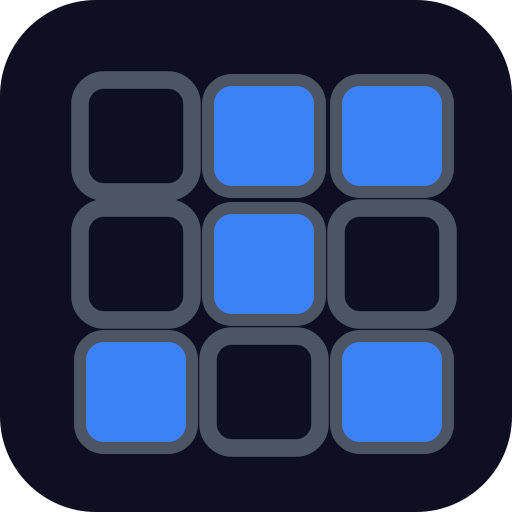
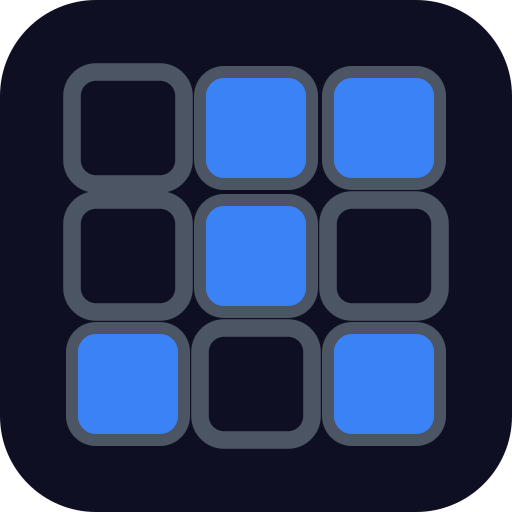
Improve PWA standalone detection & mobile UI
Detect and apply a persistent is-standalone-pwa class early for installed PWAs (index.html + useStandalonePwa). Sync the document class when the display-mode changes and use it to drive layout.

Refactor mobile layout and navigation styling to support two modes: in-browser (leave room for browser UI) and installed PWA (pin nav to physical bottom). Add CSS variables and media queries to adjust nav padding, app height, and scroll padding; replace the mobile-nav--standalone class with class-based and CSS-variable driven styles. Update App.vue and component styles to opt out/in based on the standalone class.

Update components: AppNavigation no longer imports the composable and uses the simplified class approach; InfoView now shows different install/installed messaging and uses the standalone state; SettingsView and views get bottom padding tied to the mobile nav offset.

Minor updates: tweak favicon SVG coordinates and grid math in themes/favicon.ts, and replace some icon/image assets.

Changed region(s): [[0.125, 0.125, 0.9062, 0.9062]]

diff --git a/src/assets/main.css b/src/assets/main.css
@@ -52,6 +52,8 @@ h6 {
 
 /* CSS Variables */
 :root {
+  --mobile-nav-offset: 0px;
+
   /* Fonts */
   --font-primary: 'Inter', -apple-system, BlinkMacSystemFont, 'Segoe UI', Roboto, sans-serif;
   --font-secondary: 'JetBrains Mono', Monaco, 'Cascadia Code', 'Roboto Mono', monospace;
@@ -94,11 +96,93 @@ body {
 }
 
 @media (max-width: 767px) {
-  html,
-  body {
+  html:not(.is-standalone-pwa),
+  html:not(.is-standalone-pwa) body {
     height: 100dvh;
     max-height: 100dvh;
     overflow: hidden;
+  }
+}
+
+/* Mobile browser: leave room for the bottom toolbar above the nav */
+@media (max-width: 767px), (hover: none) and (pointer: coarse) {
+  html:not(.is-standalone-pwa) .mobile-nav {
+    padding-bottom: calc(
+      0.75rem + env(safe-area-inset-bottom, 0px) + max(0px, 100vh - 100dvh)
+    );
+  }
+}
+
+/* Installed PWA: pin nav to the physical bottom of the screen */
+@media (max-width: 767px), (hover: none) and (pointer: coarse) {
+  html.is-standalone-pwa {
+    --mobile-nav-offset: calc(5rem + env(safe-area-inset-bottom, 0px));
+  }
+
+  html.is-standalone-pwa,
+  html.is-standalone-pwa body {
+    height: 100%;
+    min-height: 100dvh;
+    min-height: -webkit-fill-available;
+    max-height: none;
+    overflow: hidden;
+  }
+
+  html.is-standalone-pwa #app {
+    height: 100%;
+    min-height: 100dvh;
+    min-height: -webkit-fill-available;
+    max-height: none;
+  }
+
+  html.is-standalone-pwa .mobile-nav {
+    position: fixed;
+    bottom: 0;
+    left: 0;
+    right: 0;
+    z-index: 100;
+    padding-bottom: calc(0.75rem + env(safe-area-inset-bottom, 0px));
+  }
+
+  html.is-standalone-pwa .app-main {
+    scroll-padding-bottom: var(--mobile-nav-offset);
+  }
+}
+
+@media (display-mode: standalone), (display-mode: fullscreen) {
+  @media (max-width: 767px), (hover: none) and (pointer: coarse) {
+    html {
+      --mobile-nav-offset: calc(5rem + env(safe-area-inset-bottom, 0px));
+    }
+
+    html,
+    html body {
+      height: 100%;
+      min-height: 100dvh;
+      min-height: -webkit-fill-available;
+      max-height: none;
+      overflow: hidden;
+    }
+
+    #app {
+      height: 100%;
+      min-height: 100dvh;
+      min-height: -webkit-fill-available;
+      max-height: none;
+    }
+
+    .mobile-nav {
+      position: fixed;
+      bottom: 0;
+      left: 0;
+      right: 0;
+      z-index: 100;
+      padding-bottom: calc(0.75rem + env(safe-area-inset-bottom, 0px));
+    }
+
+    .app-main {
+      scroll-padding-bottom: var(--mobile-nav-offset);
+    }
   }
 }
 

diff --git a/src/components/InfoView.vue b/src/components/InfoView.vue
@@ -85,22 +85,32 @@
         <h3 class="info-section__title">Mobile</h3>
 
         <div class="info-mobile__block">
-          <h4 class="info-mobile__subtitle">Install as an app</h4>
-          <p class="info-mobile__text">
-            Drumpad is a Progressive Web App (PWA). You can add it to your home screen for a
-            full-screen, app-like experience — including offline use after the first visit.
-          </p>
-          <ul class="info-mobile__steps">
-            <li>
-              <strong>iPhone / iPad (Safari):</strong> tap Share, then
-              <em>Add to Home Screen</em>.
-            </li>
-            <li>
-              <strong>Android (Chrome):</strong> open the browser menu, then
-              <em>Install app</em> or <em>Add to Home screen</em>.
-            </li>
-          </ul>
-          <span class="info-mobile__badge info-mobile__badge--available">Available now</span>
+          <template v-if="isStandalonePwa">
+            <h4 class="info-mobile__subtitle">Installed app</h4>
+            <p class="info-mobile__text">
+              You are currently using Drumpad as an installed app — full-screen, on your home
+              screen, with offline support after your first visit.
+            </p>
+            <span class="info-mobile__badge info-mobile__badge--active">Active now</span>
+          </template>
+          <template v-else>
+            <h4 class="info-mobile__subtitle">Install as an app</h4>
+            <p class="info-mobile__text">
+              Drumpad is a Progressive Web App (PWA). You can add it to your home screen for a
+              full-screen, app-like experience — including offline use after the first visit.
+            </p>
+            <ul class="info-mobile__steps">
+              <li>
+                <strong>iPhone / iPad (Safari):</strong> tap Share, then
+                <em>Add to Home Screen</em>.
+              </li>
+              <li>
+                <strong>Android (Chrome):</strong> open the browser menu, then
+                <em>Install app</em> or <em>Add to Home screen</em>.
+              </li>
+            </ul>
+            <span class="info-mobile__badge info-mobile__badge--available">Available now</span>
+          </template>
         </div>
 
         <div class="info-mobile__block info-mobile__block--native">
@@ -151,6 +161,7 @@
 
 <script lang="ts">
 import { defineComponent } from 'vue'
+import { useStandalonePwa } from '../composables/useStandalonePwa'
 import { useTouchPrimaryDevice } from '../composables/useTouchPrimaryDevice'
 
 const LEGACY_DRUMPAD_URL = 'https://jakub-horacek.github.io/drumpad/'
@@ -161,8 +172,10 @@ export default defineComponent({
   name: 'InfoView',
   setup() {
     const { isTouchPrimary } = useTouchPrimaryDevice()
+    const { isStandalonePwa } = useStandalonePwa()
     return {
       isTouchPrimary,
+      isStandalonePwa,
       LEGACY_DRUMPAD_URL,
       LEGACY_REPO_URL,
       SOURCE_REPO_URL,
@@ -175,6 +188,7 @@ export default defineComponent({
 .view {
   min-height: calc(100vh - 8rem);
   padding: 1rem;
+  padding-bottom: calc(1rem + var(--mobile-nav-offset, 0px));
 }
 
 .view__content {
@@ -367,6 +381,12 @@ export default defineComponent({
   color: #22c55e;
   background: color-mix(in srgb, #22c55e 15%, var(--bg-tertiary));
   border-color: #22c55e;
+}
+
+.info-mobile__badge--active {
+  color: var(--accent-color);
+  background: var(--accent-color-light, rgba(59, 130, 246, 0.15));
+  border-color: var(--accent-color);
 }
 
 .info-list {

diff --git a/src/components/AppNavigation.vue b/src/components/AppNavigation.vue
@@ -1,5 +1,5 @@
 <template>
-  <nav :class="['mobile-nav', { 'mobile-nav--standalone': isStandalonePwa }]">
+  <nav class="mobile-nav">
     <button
       v-for="view in views"
       :key="view.id"
@@ -14,7 +14,6 @@
 
 <script lang="ts">
 import { defineComponent, h } from 'vue'
-import { useStandalonePwa } from '../composables/useStandalonePwa'
 import type { ViewMode } from '../types'
 
 // Icon components
@@ -63,7 +62,6 @@ export default defineComponent({
   },
   emits: ['view-change'],
   setup() {
-    const { isStandalonePwa } = useStandalonePwa()
     const views = [
       { id: 'info' as ViewMode, label: 'Info', icon: 'InfoIcon' },
       { id: 'drumpad' as ViewMode, label: 'Drumpad', icon: 'GridIcon' },
@@ -71,7 +69,6 @@ export default defineComponent({
     ]
 
     return {
-      isStandalonePwa,
       views,
     }
   },
@@ -87,18 +84,8 @@ export default defineComponent({
   background: var(--bg-secondary);
   border-top: 1px solid var(--border-color);
   padding: 0.75rem;
-  padding-bottom: calc(
-    0.75rem + env(safe-area-inset-bottom, 0px) + max(0px, 100vh - 100dvh)
-  );
-  gap: 0.25rem;
-}
-
-.mobile-nav--standalone {
-  position: fixed;
-  bottom: 0;
-  left: 0;
-  right: 0;
   padding-bottom: calc(0.75rem + env(safe-area-inset-bottom, 0px));
+  gap: 0.25rem;
 }
 
 .mobile-nav__btn {

diff --git a/src/composables/useStandalonePwa.ts b/src/composables/useStandalonePwa.ts
@@ -7,12 +7,20 @@ function detectStandalonePwa(): boolean {
     return false
   }
 
+  if (document.documentElement.classList.contains('is-standalone-pwa')) {
+    return true
+  }
+
   const navigatorWithStandalone = window.navigator as Navigator & { standalone?: boolean }
   if (navigatorWithStandalone.standalone === true) {
     return true
   }
 
   return window.matchMedia(STANDALONE_DISPLAY_MEDIA_QUERY).matches
+}
+
+function applyStandalonePwaClass(isStandalone: boolean): void {
+  document.documentElement.classList.toggle('is-standalone-pwa', isStandalone)
 }
 
 function createStandalonePwaState(): { isStandalonePwa: Ref<boolean> } {
@@ -22,9 +30,13 @@ function createStandalonePwaState(): { isStandalonePwa: Ref<boolean> } {
     return { isStandalonePwa }
   }
 
+  applyStandalonePwaClass(isStandalonePwa.value)
+
   const mql = window.matchMedia(STANDALONE_DISPLAY_MEDIA_QUERY)
   const sync = () => {
-    isStandalonePwa.value = detectStandalonePwa()
+    const next = detectStandalonePwa()
+    isStandalonePwa.value = next
+    applyStandalonePwaClass(next)
   }
 
   mql.addEventListener('change', sync)

diff --git a/index.html b/index.html
@@ -30,6 +30,17 @@
     <link rel="preconnect" href="https://fonts.gstatic.com" crossorigin />
 
     <title>Drumpad</title>
+    <script>
+      ;(function () {
+        var isStandalone =
+          window.navigator.standalone === true ||
+          window.matchMedia('(display-mode: standalone)').matches ||
+          window.matchMedia('(display-mode: fullscreen)').matches
+        if (isStandalone) {
+          document.documentElement.classList.add('is-standalone-pwa')
+        }
+      })()
+    </script>
   </head>
   <body>
     <div id="app"></div>

diff --git a/src/App.vue b/src/App.vue
@@ -139,7 +139,7 @@ export default defineComponent({
 }
 
 @media (max-width: 767px), (hover: none) and (pointer: coarse) {
-  #app {
+  #app:not(.is-standalone-pwa) {
     height: 100dvh;
     max-height: 100dvh;
     overflow: hidden;
@@ -162,7 +162,4 @@ export default defineComponent({
   pointer-events: none;
 }
 
-.is-standalone-pwa .app-main {
-  padding-bottom: calc(4.5rem + env(safe-area-inset-bottom, 0px));
-}
 </style>

diff --git a/src/themes/favicon.ts b/src/themes/favicon.ts
@@ -18,9 +18,11 @@ export const THEME_FAVICON_PALETTES: Record<string, ThemeFaviconPalette> = {
 const FILLED_PAD_POSITIONS = new Set([2, 3, 5, 7, 9])
 
 const VIEW_SIZE = 32
-const GRID_INSET = 5
 const CELL = 7
 const GAP = 1
+const GRID_COLS = 3
+const GRID_SIZE = GRID_COLS * CELL + (GRID_COLS - 1) * GAP
+const GRID_INSET = (VIEW_SIZE - GRID_SIZE) / 2
 
 /**
  * Build an SVG favicon: 3×3 grid with filled and outline-only pads.

diff --git a/src/components/SettingsView.vue b/src/components/SettingsView.vue
@@ -152,6 +152,7 @@ export default defineComponent({
 .view {
   min-height: calc(100vh - 8rem);
   padding: 1rem;
+  padding-bottom: calc(1rem + var(--mobile-nav-offset, 0px));
 }
 
 .view__content {